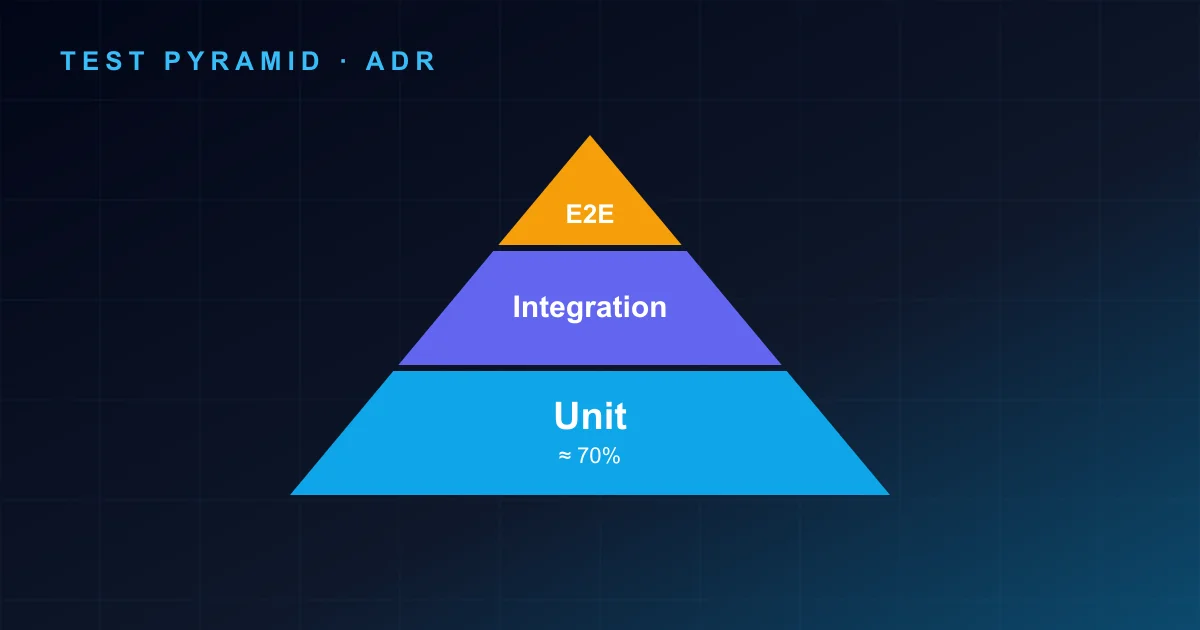
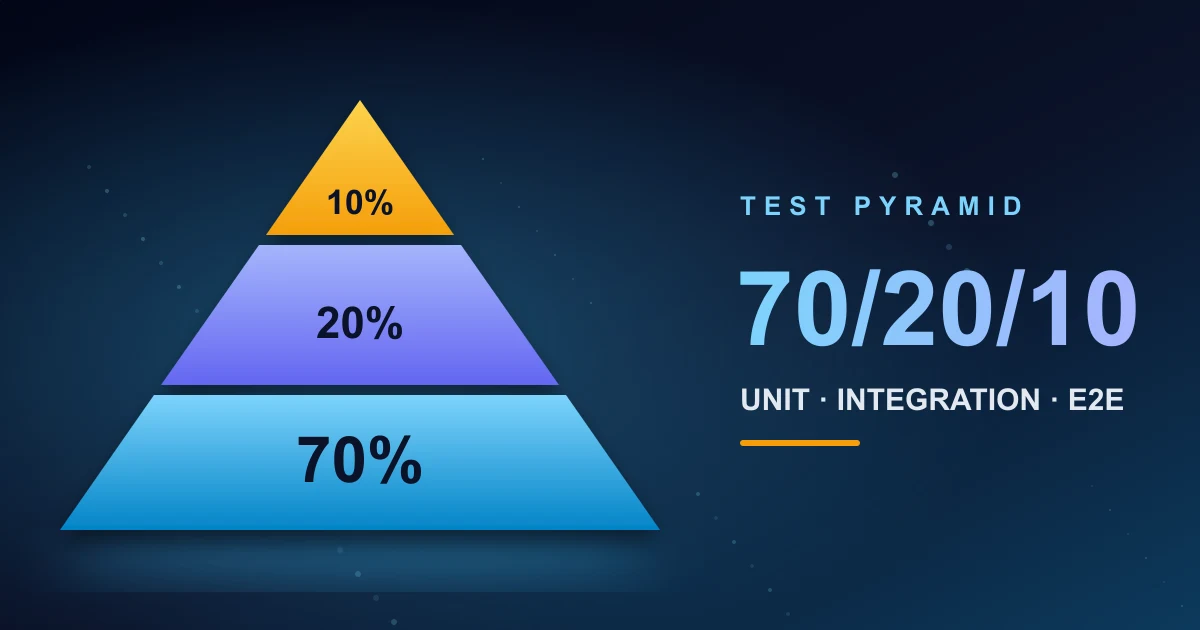
feat(articles): new cover design and pointer cursor on share buttons

diff --git a/src/components/pages/articles/share-buttons.tsx b/src/components/pages/articles/share-buttons.tsx
@@ -68,14 +68,25 @@ export function ShareButtons({ url, title }: Readonly<ShareButtonsProps>) {
       </span>
 
       {canNativeShare && (
-        <Button type="button" size="sm" onClick={nativeShare}>
+        <Button
+          type="button"
+          size="sm"
+          className="cursor-pointer"
+          onClick={nativeShare}
+        >
           <Share2 className="mr-2 h-4 w-4" />
           {text.shareNative}
         </Button>
       )}
 
       {links.map(link => (
-        <Button key={link.label} asChild size="sm" variant="outline">
+        <Button
+          key={link.label}
+          asChild
+          size="sm"
+          variant="outline"
+          className="cursor-pointer"
+        >
           <a
             href={link.href}
             target="_blank"
@@ -88,7 +99,13 @@ export function ShareButtons({ url, title }: Readonly<ShareButtonsProps>) {
         </Button>
       ))}
 
-      <Button type="button" size="sm" variant="outline" onClick={copyLink}>
+      <Button
+        type="button"
+        size="sm"
+        variant="outline"
+        className="cursor-pointer"
+        onClick={copyLink}
+      >
         {copied ? (
           <Check className="mr-2 h-4 w-4 text-green-500" />
         ) : (
